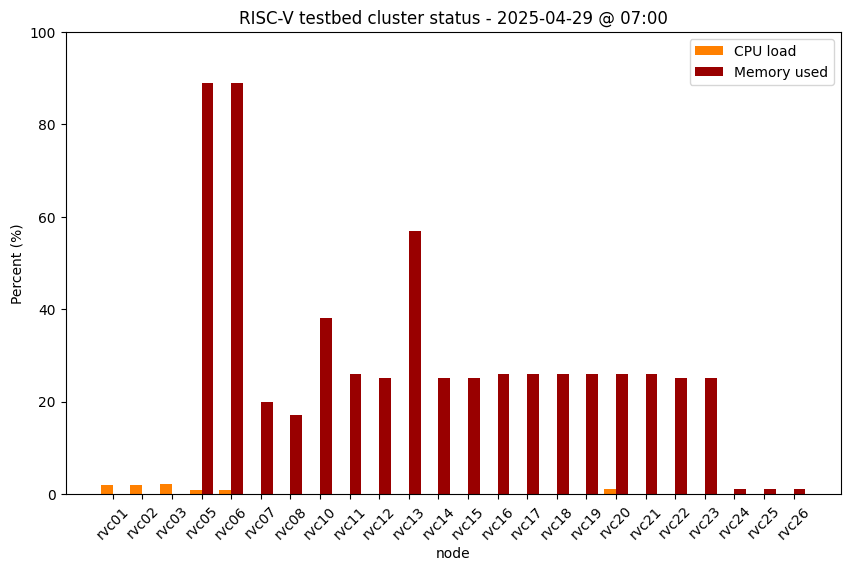
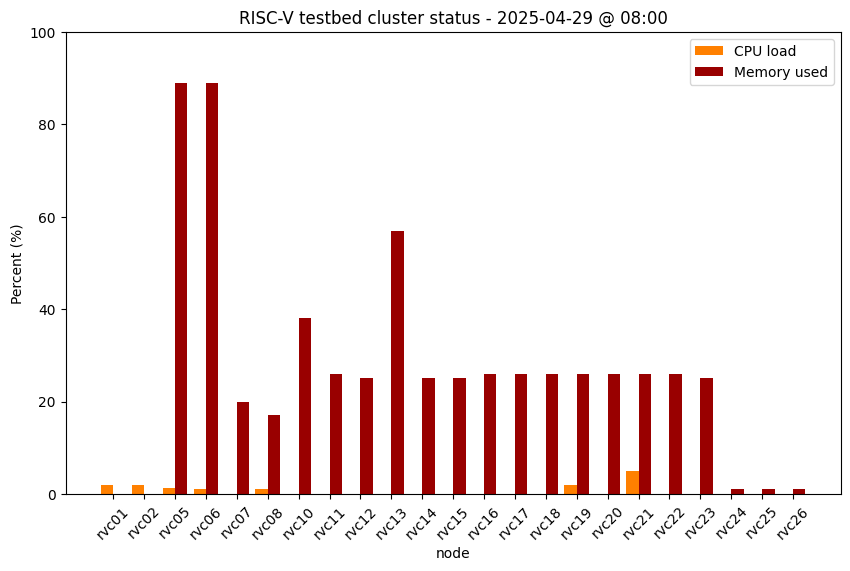
Update cluster status

Changed region(s): [[0.1529, 0.1489, 0.9482, 0.9527], [0.7341, 0.0298, 0.7647, 0.0595]]

diff --git a/status.md b/status.md
@@ -15,7 +15,7 @@ permalink: /status/
 | ------------- | ------------- |  ------------- | ------------- | ------------- | 
 | Banana Pi BPI-F3 #1 | rvc01 | 8 | 16GB | <img src="/images/on.png" alt="green light" width="10"/> up |
 | Milk-V Jupiter #1 | rvc02 | 8 | 16GB | <img src="/images/on.png" alt="green light" width="10"/> up |
-| Milk-V Jupiter #2 | rvc03 | 8 | 16GB | <img src="/images/on.png" alt="green light" width="10"/> up |
+| Milk-V Jupiter #2 | rvc03 | 8 | 16GB | <img src="/images/off.png" alt="red light" width="10"/> down |
 | DongshanNezhaSTU #4 | rvc04 | 1 | 512MB | <img src="/images/amber.png" alt="amber light" width="10"/> offline |
 | MangoPi MQ-Pro #1 | rvc05 | 1 | 1GB | <img src="/images/on.png" alt="green light" width="10"/> up |
 | MangoPi MQ-Pro #2 | rvc06 | 1 | 1GB | <img src="/images/on.png" alt="green light" width="10"/> up |
